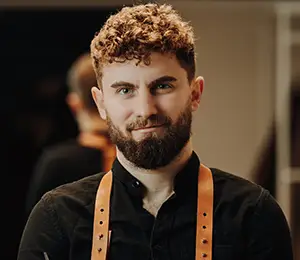
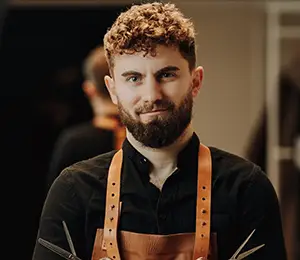
slider

diff --git a/src/components/Slider/Slider.jsx b/src/components/Slider/Slider.jsx
@@ -1,5 +1,15 @@
 import { useTranslation } from 'react-i18next';
 import { motion } from 'framer-motion';
+import { Swiper, SwiperSlide } from 'swiper/react';
+import { Navigation, Pagination, Autoplay } from 'swiper/modules';
+import 'swiper/css';
+import 'swiper/css/pagination';
+import 'swiper/css/navigation';
+
+import sl1 from './1.webp';
+import sl2 from './2.webp';
+import sl3 from './3.webp';
+import sl4 from './4.webp';
 
 import { BookingButton } from '../index.js';
 import { buttonAnimation, headerAnimation } from './animations.js';
@@ -9,27 +19,97 @@ const Slider = ({ showModal }) => {
     const { t } = useTranslation();
     return (
         <div className={css.slider} id={'top'}>
-            <div className={css.slider_overlay}>
-                <div className={css.welcome_wrapper}>
-                    <motion.h1
-                        key={showModal}
-                        custom={1}
-                        initial={'hidden'}
-                        animate={'visible'}
-                        variants={headerAnimation}
-                    >{t('welcome')}
-                    </motion.h1>
-                </div>
-                <div className={css.button_wrapper}>
-                    <motion.div
-                        key={showModal}
-                        custom={2}
-                        initial={'hidden'}
-                        animate={'visible'}
-                        variants={buttonAnimation}>
-                        <BookingButton/>
-                    </motion.div>
-                </div>
+            <Swiper
+                style={{ zIndex: 0 }}
+                autoplay={{
+                    delay: 5500,
+                    disableOnInteraction: false,
+                }}
+                effect={'fade'}
+
+                fadeEffect={{
+                    crossFade: false,
+                }}
+                pagination={{
+                    clickable: true,
+                }}
+                autoHeight={true}
+                slidesPerView={1}
+                spaceBetween={10}
+                breakpoints={{
+                    '@0.00': {
+                        slidesPerView: 1,
+                        spaceBetween: 0,
+                    },
+                    '@0.50': {
+                        slidesPerView: 1,
+                        spaceBetween: 0,
+                    },
+                    '@0.60': {
+                        slidesPerView: 1,
+                        spaceBetween: 0,
+                    },
+                    '@0.75': {
+                        slidesPerView: 2,
+                        spaceBetween: 0,
+                    },
+                    '@1.00': {
+                        slidesPerView: 2,
+                        spaceBetween: 0,
+                    },
+                    '@1.25': {
+                        slidesPerView: 3,
+                        spaceBetween: 0,
+                    },
+                    '@1.50': {
+                        slidesPerView: 3,
+                        spaceBetween: 0,
+                    },
+                    '@1.80': {
+                        slidesPerView: 3,
+                        spaceBetween: 0
+                    }
+
+                }}
+                loop={true}
+                modules={[Pagination, Navigation, Autoplay]}
+            >
+                <SwiperSlide>
+                    <img src={sl1} alt={'slide'}/>
+                    <div className={css.slider_overlay}></div>
+                </SwiperSlide>
+                <SwiperSlide>
+                    <img src={sl4} alt={'slide'}/>
+                    <div className={css.slider_overlay}></div>
+                </SwiperSlide>
+                <SwiperSlide>
+                    <img src={sl2} alt={'slide'}/>
+                    <div className={css.slider_overlay}></div>
+                </SwiperSlide>
+                <SwiperSlide>
+                    <img src={sl3} alt={'slide'}/>
+                    <div className={css.slider_overlay}></div>
+                </SwiperSlide>
+            </Swiper>
+            <div className={css.welcome_wrapper}>
+                <motion.h1
+                    key={showModal}
+                    custom={1}
+                    initial={'hidden'}
+                    animate={'visible'}
+                    variants={headerAnimation}
+                >{t('welcome')}
+                </motion.h1>
+            </div>
+            <div className={css.button_wrapper}>
+                <motion.div
+                    key={showModal}
+                    custom={2}
+                    initial={'hidden'}
+                    animate={'visible'}
+                    variants={buttonAnimation}>
+                    <BookingButton/>
+                </motion.div>
             </div>
         </div>
     );

diff --git a/src/components/Header/Header.module.css b/src/components/Header/Header.module.css
@@ -1,6 +1,7 @@
 .header_wrapper {
     width: 100%;
     height: 80px;
+    box-sizing: border-box;
     background-color: rgba(var(--main_dark_rgb), 0);
     display: flex;
     justify-content: space-evenly;
@@ -41,11 +42,9 @@
     }
 
     .logo {
-        background-image: url("./Logo_sq.png");
         background-repeat: no-repeat;
         background-size: cover;
-        width: 78px;
-        height: 78px;
+        width: 215px;
     }
 
     .burger_button {

diff --git a/src/components/Slider/Slider.module.css b/src/components/Slider/Slider.module.css
@@ -1,5 +1,5 @@
 .slider {
-    background-image: url("./main_pic.webp");
+    /*background-image: url("./main_pic.webp");*/
     width: 100%;
     height: 100vh;
     box-sizing: border-box;
@@ -12,6 +12,7 @@
 
 .slider_overlay {
     position: absolute;
+    z-index: 2;
     top: 0;
     left: 0;
     width: 100%;

diff --git a/src/components/Header/LangSwitcher/Langswitch.module.css b/src/components/Header/LangSwitcher/Langswitch.module.css
@@ -1,7 +1,8 @@
 .menu_wrapper {
     display: block;
     height: 100%;
-    margin: 0;
+    margin-left: -20px;
+    /*margin: 0;*/
     padding: 10px 0;
 }
 
